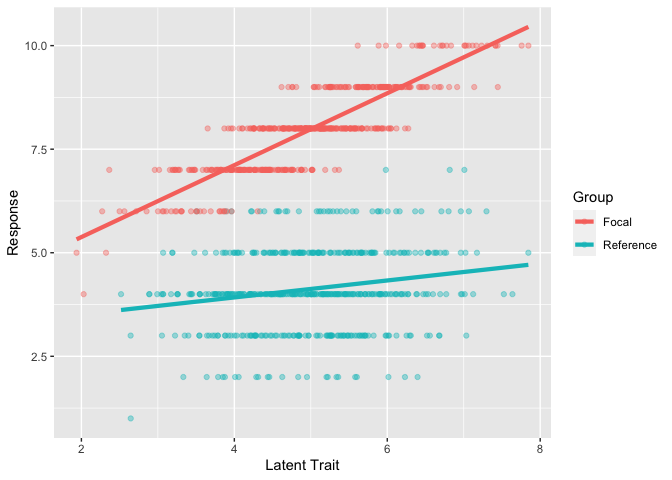
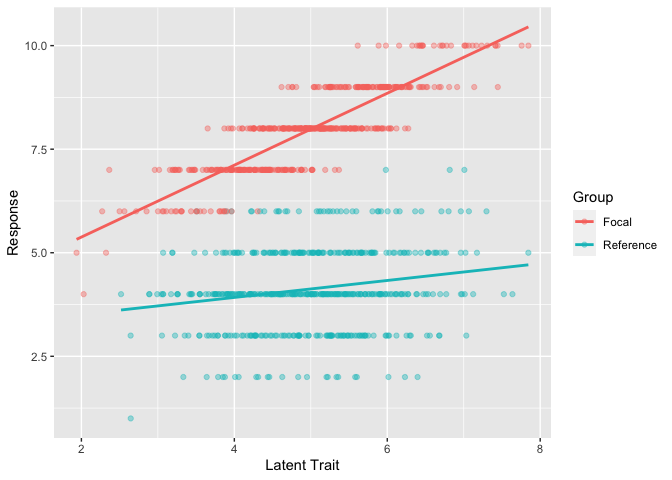
Added in dMACS_Shrunk
The added in dMACS_Shrunk method in the update chunk.

diff --git a/dMACS_Shrunk-Example.md b/dMACS_Shrunk-Example.md
@@ -28,6 +28,11 @@ suppressWarnings(library(faux))
     ## - Get and set global package options with: faux_options()
     ## ************
 
+``` r
+suppressWarnings(library(skimr))
+suppressWarnings(library(lsr))
+```
+
 ### Introduction
 
 So this is meant to demonstrate how dMACS_Shrunk should theoretically
@@ -51,7 +56,7 @@ fakedatR$Response <- if_else(fakedatR$Response > 10, 10, fakedatR$Response)
 fakedatR <- fakedatR %>% mutate (group = "R")
 
 fakedatF <- rnorm_multi(n = 500, 
-                          mu = c(5,8), 
+                          mu = c(5, 8), 
                           sd = c(1, 1), 
                           r = c(0.9), 
                           varnames = c("Eta", "Response"))
@@ -65,7 +70,7 @@ fakedat <- bind_rows(fakedatR, fakedatF)
 
 fakedat %>% ggplot(aes(x = Eta, y = Response, color = group)) + 
   geom_point(alpha = 0.4) + 
-  stat_smooth(method = lm, se = FALSE, linewidth = 1.5) + 
+  stat_smooth(method = lm, se = FALSE) +
   labs(x = "Latent Trait",
        color = "Group") + 
   scale_color_discrete(labels = c("Focal", "Reference"))
@@ -103,15 +108,15 @@ b <- (nrow(fakedatR)-1) + (nrow(fakedatF)-1)
 den <- a/b
 
 integrand <- function(x){
-  ((aF + bF*x)-(aR + bR*x))*dnorm(x,5,1)
-}
+  ((aF + bF*x)-(aR + bR*x))^2*dnorm(x,5,1)
+  }
 
 dMACS<-sqrt(integrate(integrand, -Inf, Inf)$value)/den
 
 dMACS
 ```
 
-    ## [1] 1.937263
+    ## [1] 3.860272
 
 Phew! That’s pretty dang big. I suspect it’s not typical to find a value
 this large, however for the purposes of this example we can definitley
@@ -148,15 +153,33 @@ there is a mean dMACS of 0 and an standard deviation of 1.
 ``` r
 priorPH0 <- 0.5
 sigmaSlab <- 1
-N <- nrow(fakedat)/2
+n <- nrow(fakedat)/2
 
-sd = 4
+integrand <- function(x){
+  
+diff<-(aF + bF*x)-(aR + bR*x)
 
-diff = 8
+ybar<-sqrt((diff)^2)/den
 
-den = 1/2
+prec <- (n+ 1 / sigmaSlab)
+v1 <- 1 / prec
 
-sqrt((diff^2*den))/sd
+c <- n * ybar
+mu1 <- v1 * c
+
+a <- 1 / sqrt(n * (sigmaSlab + 1))
+b <- n^2 * ybar^2
+c <- 2 * (n + 1 / sigmaSlab)
+w<-a * exp(b / c)
+rho1 <- priorPH0/ (priorPH0 + (1 - priorPH0) * w)
+
+UpDiff <- mu1*(1-rho1)*den
+
+UpDiff*dnorm(x,5,1)
+}
+
+dMACS_shrunk<-integrate(integrand, -Inf,Inf)$value/den
+dMACS_shrunk
 ```
 
-    ## [1] 1.414214
+    ## [1] 3.796814
